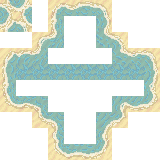
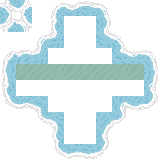
mid ocean tiles integrated

diff --git a/js/worldGen.js b/js/worldGen.js
@@ -77,38 +77,38 @@ class WorldGen {
         autoArea: true,
         layers: {
             l1: {
-                bg: [   
+                bg: [
                     "0002","0002","0002","0002","0002","0002","0002","0002","0002","0002","0002","0002",
                     "0002","0002","0002","0002","0002","0002","0002","0002","0002","0002","0002","0002",
                     "0002","0002","0002","0002","0002","0002","0002","0002","0002","0002","0002","0002",
                     "0002","0002","0002","0002","0002","0002","0002","0002","0002","0002","0002","0002",
-                    "0002","0002","0002","0002","0002","0002","0002","0002","0002","0002","0002","0002",
-                    "0002","0002","0002","0002","0002","0002","0002","0002","0002","0002","0002","0002",
-                    "0002","0002","0002","0002","0002","0002","0002","0002","0002","0002","0002","0002",
-                    "0002","0002","0002","0002","0002","0002","0002","0002","0002","0002","0002","0002",
-                    "0002","0002","0002","0002","0002","0002","0002","0002","0002","0002","0002","0002",
+                    "0002","0002","0002","004a","003j","003j","003j","003j","004a","0002","0002","0002",
+                    "0002","0002","004a","004c","004d","004d","004d","004d","004e","004a","0002","0002",
+                    "0002","0002","004a","004f","004j","004j","004j","004j","004g","004a","0002","0002",
+                    "0002","0002","004a","004k","004l","004l","004l","004l","004o","004a","0002","0002",
+                    "0002","0002","0002","004a","003j","003j","003j","003j","004a","0002","0002","0002",
                     "0002","0002","0002","0002","0002","0002","0002","0002","0002","0002","0002","0002",
                     "0002","0002","0002","0002","0002","0002","0002","0002","0002","0002","0002","0002",
                     "0002","0002","0002","0002","0002","0002","0002","0002","0002","0002","0002","0002",
                 ],
-                bgo: [   
+                bgo: [
                     "002n","002l","002l","002l","002l","002l","002l","002l","002l","002l","002l","002m",
                     "002g","0000","0000","0000","0000","0000","0000","0000","0000","0000","0000","002f",
                     "002g","0000","0000","0000","0000","0000","0000","0000","0000","0000","0000","002f",
-                    "002g","0000","0000","003c","003d","003d","003d","003d","003e","0000","0000","002f",
-                    "002g","0000","0000","003f","003j","003j","003j","003j","003g","0000","0000","002f",
-                    "002g","0000","003c","003h","003j","003j","003j","003j","003i","003e","0000","002f",
-                    "002g","0000","003f","003j","003j","000t","000t","003j","003j","003g","0000","002f",
-                    "002g","0000","003f","003j","003j","003j","003j","003j","003j","003g","0000","002f",
-                    "002g","0000","003k","003l","003m","003j","003j","003n","003l","003o","0000","002f",
-                    "002g","0000","0000","0000","003k","003l","003l","003o","0000","0000","0000","002f",
+                    "002g","0000","003c","003d","003d","003d","003d","003d","003d","003e","0000","002f",
+                    "002g","003c","003h","000t","000t","000t","000t","000t","000t","003i","003e","002f",
+                    "002g","003f","000t","000t","000t","000t","000t","000t","000t","000t","003g","002f",
+                    "002g","003f","000t","000t","000t","000t","000t","000t","000t","000t","003g","002f",
+                    "002g","003f","000t","000t","000t","000t","000t","000t","000t","000t","003g","002f",
+                    "002g","003k","003m","000t","000t","000t","000t","000t","000t","003n","003o","002f",
+                    "002g","0000","003k","003l","003l","003l","003l","003l","003l","003o","0000","002f",
                     "002g","0000","0000","0000","0000","0000","0000","0000","0000","0000","0000","002f",
                     "002i","002d","002d","002d","002d","002d","002d","002d","002d","002d","002d","002h",
                 ],
             },
-        }
+        },
     };
-    
+        
     static house1 = {
         tag: "house1",
         columns: 10,

diff --git a/js/sparkAssets.js b/js/sparkAssets.js
@@ -33,6 +33,7 @@ class SparkAssets {
             ]},
             Templates.overlayMedia("img/grass.png", "grass", {"height": 16, "width": 16}),
             Templates.overlayMedia("img/ocean.png", "ocean", {"height": 16, "width": 16}),
+            Templates.overlayMedia("img/oceanMid.png", "oceanMid", {"height": 16, "width": 16}),
             Templates.wallMedia("img/stuccoWalls1.png", "stuccoWalls1", {"height": 16, "width": 16, offy:16}),
             Templates.wallMedia("img/stuccoWalls2.png", "stuccoWalls2", {"height": 16, "width": 16}),
             Templates.roofMedia("img/roof.png", "roof.l", "roof.r", "roof.f", "roof.b", {"height": 16, "width": 16}),
@@ -98,16 +99,16 @@ class SparkAssets {
                 },
             },
 
-            { src: "img/testocean.png", loader: "Sheet", refs: [
-                { tag: "testocean", cls: "SyncAnimation", syncTag: "waves", loop: true, cels: [
-                    { x: 16*1, y: 16*1, width: 16, height: 16, ttl: 200 },
-                    { x: 16*2, y: 16*1, width: 16, height: 16, ttl: 200 },
-                    { x: 16*3, y: 16*1, width: 16, height: 16, ttl: 200 },
-                    { x: 16*4, y: 16*1, width: 16, height: 16, ttl: 200 },
-                    { x: 16*5, y: 16*1, width: 16, height: 16, ttl: 200 },
-                    { x: 16*6, y: 16*1, width: 16, height: 16, ttl: 200 },
-                    { x: 16*7, y: 16*1, width: 16, height: 16, ttl: 200 },
-                    { x: 16*8, y: 16*1, width: 16, height: 16, ttl: 200 },
+            { src: "img/waves.png", loader: "Sheet", refs: [
+                { tag: "waves", cls: "SyncAnimation", syncTag: "waves", loop: true, cels: [
+                    { x: 16*0, y: 16*0, width: 16, height: 16, ttl: 200 },
+                    { x: 16*1, y: 16*0, width: 16, height: 16, ttl: 200 },
+                    { x: 16*2, y: 16*0, width: 16, height: 16, ttl: 200 },
+                    { x: 16*3, y: 16*0, width: 16, height: 16, ttl: 200 },
+                    { x: 16*4, y: 16*0, width: 16, height: 16, ttl: 200 },
+                    { x: 16*5, y: 16*0, width: 16, height: 16, ttl: 200 },
+                    { x: 16*6, y: 16*0, width: 16, height: 16, ttl: 200 },
+                    { x: 16*7, y: 16*0, width: 16, height: 16, ttl: 200 },
                 ]},
             ]},
 
@@ -294,7 +295,7 @@ class SparkAssets {
             Templates.tile("00q", "flowerpot1", { xcollider: { width: 24, height: 24}, sparkable: true}),
             Templates.tile("00r", "wildFlower"), 
             Templates.tile("00s", "seaShell"),
-            Templates.tile("00t", "testocean"),
+            Templates.tile("00t", "waves"),
 
             Templates.object("o00", "sparkbase", "SparkBase", { 
                 powered: true,
@@ -388,6 +389,7 @@ class SparkAssets {
 
         this.assets = this.assets.concat(Templates.overlayTiles("02", "grass"));
         this.assets = this.assets.concat(Templates.overlayTiles("03", "ocean"));
+        this.assets = this.assets.concat(Templates.overlayTiles("04", "oceanMid"));
         this.assets = this.assets.concat(Templates.wallTiles("05", "stuccoWalls1", Templates.wallColliders()));
         this.assets = this.assets.concat(Templates.wallTiles("06", "stuccoWalls2"));
         this.assets = this.assets.concat(Templates.frontRoofTiles("rf", "roof.f"));
